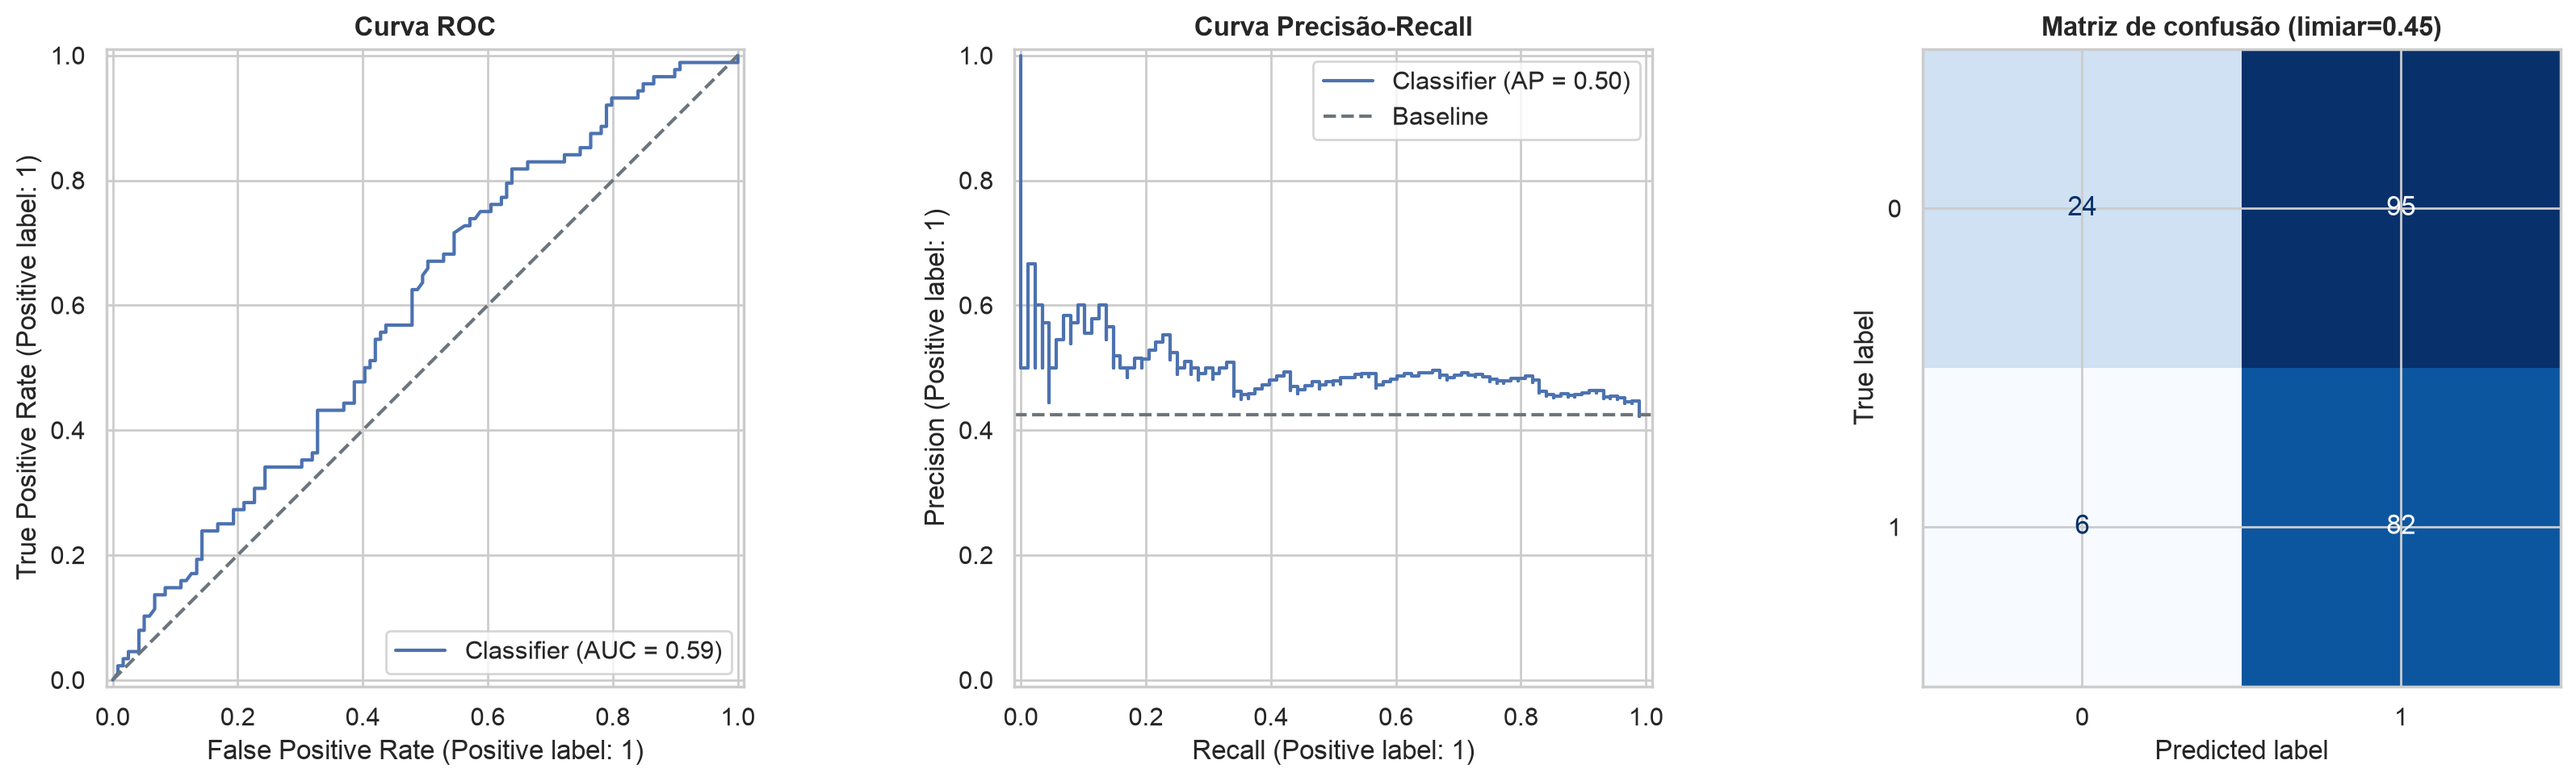
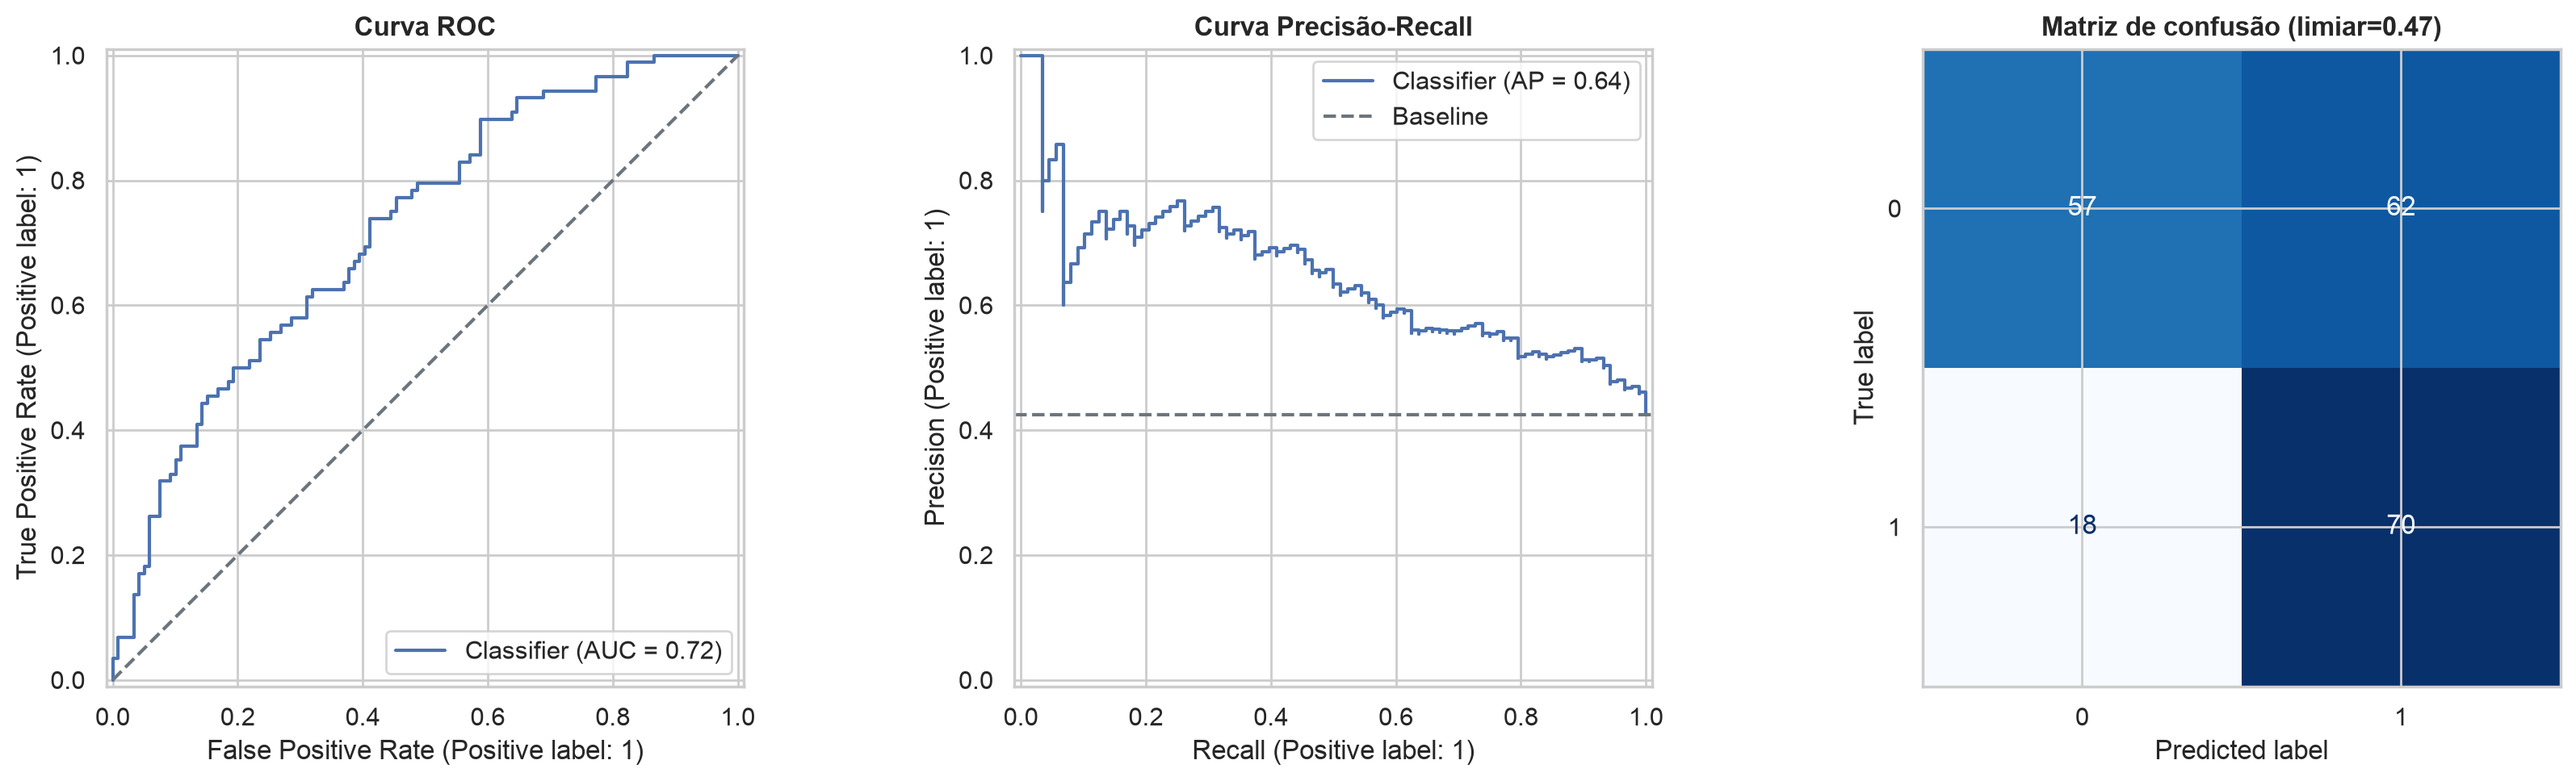
Atualiza pipeline e resultados da série temporal

diff --git a/chikungunya_pipeline.py b/chikungunya_pipeline.py
@@ -142,7 +142,7 @@ def limpar_dados(df: pd.DataFrame, outdir: Path) -> pd.DataFrame:
             df[col] = df[col].map(normaliza_texto)
 
     # Datas
-    for col in ["DT_NOTIFIC", "DT_SIN_PRI", "DT_NASC", "DT_OBITO", "DT_ENCERRA"]:
+    for col in ["DT_NOTIFIC", "DT_SIN_PRI", "DT_NASC", "DT_OBITO", "DT_ENCERRA", "DT_INTERNA"]:
         if col in df.columns:
             df[col] = parse_data(df[col])
 
@@ -165,8 +165,23 @@ def limpar_dados(df: pd.DataFrame, outdir: Path) -> pd.DataFrame:
 
     # Variáveis de desfecho (padrão SINAN: 1=sim, 2=não)
     if "HOSPITALIZ" in df.columns:
-        h = pd.to_numeric(df["HOSPITALIZ"], errors="coerce")
-        df["HOSPITALIZADO"] = h.map({1: 1, 2: 0})
+        h = pd.to_numeric(df["HOSPITALIZ"], errors="coerce").map({1: 1, 2: 0})
+        # Campo HOSPITALIZ costuma vir em branco; uma data de internação preenchida também comprova hospitalização.
+        if "DT_INTERNA" in df.columns:
+            h = h.where(~df["DT_INTERNA"].notna(), 1)
+        df["HOSPITALIZADO"] = h
+        log.info("Hospitalização com desfecho conhecido: %d de %d casos (%.1f%%)",
+                 h.notna().sum(), len(df), h.notna().mean() * 100)
+
+    # Sintomas e comorbidades (SINAN: 1=sim, 2=não, demais=ignorado) -> 1/0/NaN
+    flags = [c for c in ["FEBRE", "MIALGIA", "CEFALEIA", "EXANTEMA", "VOMITO", "NAUSEA", "DOR_COSTAS", "CONJUNTVIT",
+                         "ARTRITE", "ARTRALGIA", "PETEQUIA_N", "LEUCOPENIA", "LACO", "DOR_RETRO", "DIABETES",
+                         "HEMATOLOG", "HEPATOPAT", "RENAL", "HIPERTENSA", "ACIDO_PEPT", "AUTO_IMUNE"] if c in df.columns]
+    for c in flags:
+        df[c] = pd.to_numeric(df[c], errors="coerce").map({1: 1, 2: 0})
+    comorb = [c for c in ["DIABETES", "HEMATOLOG", "HEPATOPAT", "RENAL", "HIPERTENSA", "ACIDO_PEPT", "AUTO_IMUNE"] if c in df.columns]
+    if comorb:
+        df["N_COMORBID"] = df[comorb].sum(axis=1, min_count=1)
     if "EVOLUCAO" in df.columns:
         e = pd.to_numeric(df["EVOLUCAO"], errors="coerce")
         df["OBITO_AGRAVO"] = e.map({1: 0, 2: 1, 3: 0, 4: 0, 9: np.nan})
@@ -293,6 +308,8 @@ def eda(df: pd.DataFrame, outdir: Path, pop: pd.DataFrame | None) -> dict:
     for col, nome in [("HOSPITALIZADO", "hospitalização"), ("OBITO_AGRAVO", "óbito pelo agravo")]:
         if col in df.columns and df[col].notna().any():
             ach[f"taxa_{col.lower()}"] = float(df[col].mean() * 100)
+            if col == "HOSPITALIZADO":
+                ach["n_hosp_rotulado"] = int(df[col].notna().sum())
             log.info("Taxa de %s: %.2f%%", nome, df[col].mean() * 100)
     if {"FAIXA_ETARIA", "HOSPITALIZADO"} <= set(df.columns):
         g = df.groupby("FAIXA_ETARIA", observed=True)["HOSPITALIZADO"].mean() * 100
@@ -385,7 +402,12 @@ def modelo_classificacao(df: pd.DataFrame, outdir: Path) -> dict | None:
         return None
 
     # ATENÇÃO: não usar EVOLUCAO, CLASSI_FIN, DT_OBITO etc. (vazamento de dados / data leakage)
-    num = [c for c in ["IDADE", "DIAS_SINTOMA_NOTIF", "SEMANA_EPI", "GESTANTE"] if c in df.columns]
+    num = [c for c in ["IDADE", "DIAS_SINTOMA_NOTIF", "SEMANA_EPI", "GESTANTE", "N_COMORBID"] if c in df.columns]
+    # sintomas/comorbidades da notificação (excluídos sinais de alarme/gravidade, que já refletem a evolução do caso)
+    for c in ["FEBRE", "MIALGIA", "CEFALEIA", "EXANTEMA", "VOMITO", "NAUSEA", "DOR_COSTAS", "CONJUNTVIT", "ARTRITE",
+              "ARTRALGIA", "PETEQUIA_N", "DOR_RETRO", "DIABETES", "HIPERTENSA", "RENAL"]:
+        if c in df.columns and df[c].notna().mean() > 0.5 and df[c].nunique() > 1:
+            num.append(c)
     cat = [c for c in ["CS_SEXO", "CS_RACA", "NM_BAIRRO"] if c in df.columns]
     if not num + cat:
         return None
@@ -437,18 +459,25 @@ def modelo_classificacao(df: pd.DataFrame, outdir: Path) -> dict | None:
     pipe = Pipeline([("pre", pre), ("m", modelos[melhor_nome])]).fit(Xtr, ytr)
     proba = pipe.predict_proba(Xte)[:, 1]
 
-    # Limiar que maximiza F1 (escolhido no treino via validação não é trivial aqui; usamos o do teste só p/ reporte)
+    # Limiar de decisão escolhido SOMENTE com o treino (probabilidades fora-da-amostra via CV),
+    # sem olhar para o conjunto de teste -> evita otimismo nas métricas dependentes de limiar.
     from sklearn.metrics import precision_recall_curve
-    p_, r_, thr = precision_recall_curve(yte, proba)
+    from sklearn.model_selection import cross_val_predict
+    cv_tr = StratifiedKFold(n_splits=int(min(5, max(2, ytr.sum()))), shuffle=True, random_state=RANDOM_STATE)
+    oof = cross_val_predict(Pipeline([("pre", pre), ("m", modelos[melhor_nome])]), Xtr, ytr, cv=cv_tr,
+                            method="predict_proba", n_jobs=-1)[:, 1]
+    p_, r_, thr = precision_recall_curve(ytr, oof)
     f1s = 2 * p_ * r_ / (p_ + r_ + 1e-12)
     limiar = float(thr[np.nanargmax(f1s[:-1])]) if len(thr) else 0.5
     pred = (proba >= limiar).astype(int)
+    f1_todos = float(f1_score(yte, np.ones(len(yte), dtype=int)))  # referência: marcar todos como positivos
     metricas = {
         "modelo": melhor_nome,
         "roc_auc": float(roc_auc_score(yte, proba)) if yte.nunique() > 1 else np.nan,
         "pr_auc": float(average_precision_score(yte, proba)) if yte.nunique() > 1 else np.nan,
         "recall": float(recall_score(yte, pred)), "f1": float(f1_score(yte, pred)),
-        "limiar": limiar, "prevalencia_teste": float(yte.mean()), "n_teste": int(len(yte)),
+        "f1_todos_positivos": f1_todos,
+        "n_modelagem": int(len(d)), "limiar": limiar, "prevalencia_teste": float(yte.mean()), "n_teste": int(len(yte)),
     }
     log.info("Holdout temporal (%s): %s", melhor_nome, {k: round(v, 3) if isinstance(v, float) else v for k, v in metricas.items()})
 
@@ -491,78 +520,133 @@ def modelo_classificacao(df: pd.DataFrame, outdir: Path) -> dict | None:
 # ----------------------------------------------------------------------------
 # 5. Previsão de séries temporais
 # ----------------------------------------------------------------------------
+def _feats_ts(serie: pd.Series) -> pd.DataFrame:
+    f = pd.DataFrame({f"lag_{k}": serie.shift(k) for k in (1, 2, 3, 4)})
+    f["media_4"] = serie.shift(1).rolling(4).mean()
+    f["tendencia"] = serie.shift(1) - serie.shift(2)
+    return f
+
+
+def _prev_ingenuo(train: pd.Series, h: int) -> np.ndarray:
+    return np.repeat(float(train.iloc[-1]), h)
+
+
+def _prev_media4(train: pd.Series, h: int) -> np.ndarray:
+    return np.repeat(float(train.iloc[-4:].mean()), h)
+
+
+def _prev_ets(train: pd.Series, h: int) -> np.ndarray:
+    """Suavização exponencial com tendência amortecida (Holt damped)."""
+    from statsmodels.tsa.holtwinters import ExponentialSmoothing
+    with warnings.catch_warnings():
+        warnings.simplefilter("ignore")
+        m = ExponentialSmoothing(train.to_numpy(float) + 1.0, trend="add", damped_trend=True,
+                                 initialization_method="estimated").fit()
+    return np.clip(np.asarray(m.forecast(h)) - 1.0, 0, None)
+
+
+def _prev_arima(train: pd.Series, h: int) -> np.ndarray:
+    """ARIMA(1,1,1) na escala log1p (estabiliza variância e evita previsões negativas)."""
+    from statsmodels.tsa.arima.model import ARIMA
+    with warnings.catch_warnings():
+        warnings.simplefilter("ignore")
+        m = ARIMA(np.log1p(train.to_numpy(float)), order=(1, 1, 1)).fit()
+    return np.clip(np.expm1(np.asarray(m.forecast(h))), 0, None)
+
+
+def _prev_gb(train: pd.Series, h: int) -> np.ndarray:
+    """Gradient Boosting sobre a VARIAÇÃO semanal (árvores não extrapolam níveis, mas modelam diferenças)."""
+    F = _feats_ts(train)
+    alvo = train.diff()
+    data = pd.concat([F, alvo.rename("d")], axis=1).dropna()
+    if len(data) < 8:
+        return _prev_ingenuo(train, h)
+    m = HistGradientBoostingRegressor(max_iter=150, learning_rate=0.05, max_depth=3, min_samples_leaf=3,
+                                      random_state=RANDOM_STATE).fit(data.drop(columns="d"), data["d"])
+    hist = train.copy()
+    out = []
+    for _ in range(h):
+        prox = hist.index[-1] + pd.Timedelta(weeks=1)
+        tmp = pd.concat([hist, pd.Series([np.nan], index=[prox])])
+        xf = _feats_ts(tmp).iloc[[-1]]
+        yhat = max(0.0, float(hist.iloc[-1] + m.predict(xf)[0]))
+        hist.loc[prox] = yhat
+        out.append(yhat)
+    return np.array(out)
+
+
 def modelo_serie_temporal(df: pd.DataFrame, outdir: Path, horizonte: int = 4) -> dict | None:
+    """Compara baselines, ETS, ARIMA e GB com validação rolling-origin (reajusta a cada semana de teste)."""
     if "DT_NOTIFIC" not in df.columns:
         return None
     s = serie_semanal(df)
-    if len(s) < 14:
+    if len(s) < 16:
         log.warning("Série curta (%d semanas); pulando previsão.", len(s))
         return None
-    s = s.iloc[:-1] if len(s) > 1 else s  # descarta a última semana (possivelmente incompleta)
+    s = s.iloc[:-1].astype(float)  # descarta a última semana (possivelmente incompleta)
+    s.index.freq = None
+    H = 4
+    n = len(s)
+    n_test = max(6, int(n * 0.3))
+    origens = list(range(n - n_test, n - H + 1))
 
-    def feats(serie: pd.Series) -> pd.DataFrame:
-        f = pd.DataFrame({f"lag_{k}": serie.shift(k) for k in (1, 2, 3, 4)})
-        f["media_4"] = serie.shift(1).rolling(4).mean()
-        f["tendencia"] = serie.shift(1) - serie.shift(2)
-        f["semana"] = serie.index.isocalendar().week.values
-        return f
+    modelos = {"Ingênuo (semana anterior)": _prev_ingenuo, "Média móvel 4 sem.": _prev_media4,
+               "ETS (Holt amortecido)": _prev_ets, "ARIMA(1,1,1) log": _prev_arima, "Gradient Boosting (Δ semanal)": _prev_gb}
+    preds = {k: [] for k in modelos}
+    for t in origens:
+        treino = s.iloc[:t]
+        for nome, f in modelos.items():
+            if preds[nome] is None:
+                continue
+            try:
+                preds[nome].append(f(treino, H))
+            except Exception as e:  # noqa: BLE001
+                log.warning("Modelo '%s' falhou (%s); removido da comparação.", nome, str(e)[:80])
+                preds[nome] = None
+    reais = np.array([s.iloc[t:t + H].to_numpy() for t in origens])  # (origens, H)
 
-    F = feats(s)
-    data = pd.concat([F, s], axis=1).dropna()
-    X, y = data.drop(columns="casos"), data["casos"]
-    n_test = max(4, int(len(data) * 0.25))
-    Xtr, Xte, ytr, yte = X.iloc[:-n_test], X.iloc[-n_test:], y.iloc[:-n_test], y.iloc[-n_test:]
+    tabela, erros = {}, {}
+    for nome, pr in preds.items():
+        if pr is None:
+            continue
+        pr = np.array(pr)
+        e = pr - reais
+        erros[nome] = e
+        tabela[nome] = {"MAE_h1": float(np.mean(np.abs(e[:, 0]))), "RMSE_h1": float(np.sqrt(np.mean(e[:, 0] ** 2))),
+                        "MAE_h4": float(np.mean(np.abs(e[:, H - 1]))), "RMSE_h4": float(np.sqrt(np.mean(e[:, H - 1] ** 2)))}
+        log.info("Série | %-30s MAE 1 sem=%.1f | MAE 4 sem=%.1f", nome, tabela[nome]["MAE_h1"], tabela[nome]["MAE_h4"])
+    pd.DataFrame(tabela).T.round(2).to_csv(outdir / "tabelas" / "previsao_modelos.csv")
 
-    def rmse(a, b):
-        return float(np.sqrt(mean_squared_error(a, b)))
+    melhor = min(tabela, key=lambda k: (tabela[k]["MAE_h1"] + tabela[k]["MAE_h4"]) / 2)
+    ingenuo = tabela["Ingênuo (semana anterior)"]
+    ganho = 1 - (tabela[melhor]["MAE_h4"] / ingenuo["MAE_h4"])
+    log.info("Melhor modelo de séries: %s (MAE 4 sem. %.1f%% %s que o ingênuo)", melhor, abs(ganho) * 100,
+             "menor" if ganho > 0 else "maior")
 
-    modelo = HistGradientBoostingRegressor(max_iter=200, learning_rate=0.05, max_depth=3,
-                                           min_samples_leaf=3, random_state=RANDOM_STATE).fit(Xtr, ytr)
-    pred = modelo.predict(Xte)
-    naive = Xte["lag_1"]                       # baseline: igual à semana anterior
-    media4 = Xte["media_4"]                    # baseline: média das 4 últimas semanas
-    res = {
-        "n_semanas": int(len(s)), "semanas_teste": int(n_test),
-        "MAE": {"GradientBoosting": mean_absolute_error(yte, pred), "Ingênuo (lag-1)": mean_absolute_error(yte, naive),
-                "Média móvel 4": mean_absolute_error(yte, media4)},
-        "RMSE": {"GradientBoosting": rmse(yte, pred), "Ingênuo (lag-1)": rmse(yte, naive), "Média móvel 4": rmse(yte, media4)},
-    }
-    for k in res["MAE"]:
-        log.info("Série temporal | %-18s MAE=%.1f RMSE=%.1f", k, res["MAE"][k], res["RMSE"][k])
-
-    # Intervalo de previsão empírico a partir dos resíduos
-    resid = (yte - pred).to_numpy()
-    q_lo, q_hi = np.percentile(resid, [10, 90])
-
-    # Previsão recursiva futura (modelo refeito com toda a série)
-    modelo_full = HistGradientBoostingRegressor(max_iter=200, learning_rate=0.05, max_depth=3,
-                                                min_samples_leaf=3, random_state=RANDOM_STATE).fit(X, y)
-    hist = s.copy()
-    fut_idx, fut_val = [], []
-    for _ in range(horizonte):
-        prox = hist.index[-1] + pd.Timedelta(weeks=1)
-        tmp = pd.concat([hist, pd.Series([np.nan], index=[prox])])
-        xf = feats(tmp).iloc[[-1]]
-        yhat = max(0.0, float(modelo_full.predict(xf)[0]))
-        hist.loc[prox] = yhat
-        fut_idx.append(prox)
-        fut_val.append(yhat)
+    # Previsão futura com o melhor modelo; intervalo ~80% a partir dos erros empíricos fora-da-amostra
+    q_lo, q_hi = np.percentile(-erros[melhor].ravel(), [10, 90])  # erro = previsto - real  ->  real - previsto
+    fut_val = modelos[melhor](s, horizonte)
+    fut_idx = [s.index[-1] + pd.Timedelta(weeks=i + 1) for i in range(horizonte)]
     fut = pd.Series(fut_val, index=fut_idx)
-    pd.DataFrame({"previsao": fut, "lim_inf": (fut + q_lo).clip(lower=0), "lim_sup": fut + q_hi}).to_csv(
+    pd.DataFrame({"previsao": fut, "lim_inf": (fut + q_lo).clip(lower=0), "lim_sup": fut + q_hi}).round(1).to_csv(
         outdir / "tabelas" / "previsao_futura.csv")
 
+    # Gráfico: previsão 1 semana à frente (rolling) do melhor modelo e do ingênuo + futuro
+    idx_teste = s.index[origens]
     fig, ax = plt.subplots(figsize=(13, 5))
     ax.plot(s.index, s.values, color=AZUL, lw=2, label="Observado")
-    ax.plot(yte.index, pred, color=VERMELHO, lw=2, marker="o", label="Previsto (teste)")
-    ax.plot(yte.index, naive, color=CINZA, ls="--", label="Baseline ingênuo")
-    ax.plot([s.index[-1]] + fut_idx, [s.values[-1]] + fut_val, color="#e69f00", lw=2, marker="s", label=f"Previsão +{horizonte} sem.")
-    ax.fill_between(fut_idx, (fut + q_lo).clip(lower=0), fut + q_hi, color="#e69f00", alpha=.2, label="Intervalo ~80%")
-    ax.axvline(yte.index[0], color="k", ls=":", alpha=.5)
-    ax.set_title("Previsão de casos semanais vs. baseline (split cronológico)", fontweight="bold")
+    ax.plot(idx_teste, np.array(preds[melhor])[:, 0], color=VERMELHO, lw=2, marker="o", ms=4, label=f"{melhor} (1 sem. à frente)")
+    ax.plot(idx_teste, np.array(preds["Ingênuo (semana anterior)"])[:, 0], color=CINZA, ls="--", label="Ingênuo (1 sem. à frente)")
+    ax.plot([s.index[-1]] + fut_idx, [s.values[-1]] + list(fut_val), color="#e69f00", lw=2, marker="s", label=f"Previsão +{horizonte} sem.")
+    ax.fill_between(fut_idx, (fut + q_lo).clip(lower=0), fut + q_hi, color="#e69f00", alpha=.2, label="Intervalo ~80% (empírico)")
+    ax.axvline(idx_teste[0], color="k", ls=":", alpha=.5)
+    ax.set_title("Previsão de casos semanais (validação rolling-origin)", fontweight="bold")
     ax.set_ylabel("Casos por semana")
     ax.legend()
     salva_fig(fig, outdir / "figuras" / "09_previsao_serie.png")
-    return {k: ({a: round(b, 2) for a, b in v.items()} if isinstance(v, dict) else v) for k, v in res.items()}
+    return {"n_semanas": int(n), "n_origens": int(len(origens)), "melhor": melhor,
+            "tabela": {k: {a: round(b, 2) for a, b in v.items()} for k, v in tabela.items()},
+            "ganho_vs_ingenuo_h4": float(ganho)}
 
 
 # ----------------------------------------------------------------------------
@@ -687,7 +771,9 @@ def gerar_relatorio(outdir: Path, ach: dict, testes: list, clf: dict | None, ts:
     if "idade_mediana" in ach:
         L.append(f"- Idade mediana: **{ach['idade_mediana']:.0f} anos**; {ach['pct_feminino']:.1f}% dos casos são mulheres.")
     if "taxa_hospitalizado" in ach:
-        L.append(f"- Taxa de hospitalização: **{ach['taxa_hospitalizado']:.2f}%**.")
+        L.append(f"- Taxa de hospitalização: **{ach['taxa_hospitalizado']:.2f}%**, calculada apenas entre os "
+                 f"**{ach.get('n_hosp_rotulado', 0)} casos** ({ach.get('n_hosp_rotulado', 0) / ach['n_casos'] * 100:.0f}% do total) "
+                 f"com desfecho de hospitalização preenchido.")
     L.append("\n## 2. Estatística inferencial\n")
     if testes:
         L.append("| Hipótese | Teste | p-valor | Efeito | Conclusão |\n|---|---|---|---|---|")
@@ -696,9 +782,11 @@ def gerar_relatorio(outdir: Path, ach: dict, testes: list, clf: dict | None, ts:
             L.append(f"| {t['hipotese']} | {t['teste']} | {p} | {t['tamanho_efeito']} | {t['interpretacao']} |")
     L.append("\n## 3. Machine Learning (hospitalização)\n")
     if clf:
-        L.append(f"Melhor modelo na validação cruzada: **{clf['modelo']}**. Avaliação em *holdout cronológico* "
+        L.append(f"Modelagem com **{clf['n_modelagem']} casos** que têm hospitalização conhecida. "
+                 f"Melhor modelo na validação cruzada: **{clf['modelo']}**. Avaliação em *holdout cronológico* "
                  f"(n={clf['n_teste']}, prevalência={clf['prevalencia_teste']*100:.1f}%): ROC-AUC={clf['roc_auc']:.3f}, "
-                 f"PR-AUC={clf['pr_auc']:.3f}, recall={clf['recall']:.3f}, F1={clf['f1']:.3f}.\n")
+                 f"PR-AUC={clf['pr_auc']:.3f}. Com limiar escolhido apenas no treino ({clf['limiar']:.2f}): "
+                 f"recall={clf['recall']:.3f}, F1={clf['f1']:.3f} (referência: marcar todos como positivos dá F1={clf['f1_todos_positivos']:.3f}).\n")
         L.append("| Modelo | ROC-AUC | PR-AUC | Recall | F1 |\n|---|---|---|---|---|")
         for r in clf["tabela_cv"]:
             L.append(f"| {r['modelo']} | {r['roc_auc']} | {r['pr_auc']} | {r['recall']} | {r['f1']} |")
@@ -706,9 +794,12 @@ def gerar_relatorio(outdir: Path, ach: dict, testes: list, clf: dict | None, ts:
         L.append("_Não executado (alvo indisponível)._")
     L.append("\n## 4. Previsão de séries temporais\n")
     if ts:
-        L.append("| Modelo | MAE | RMSE |\n|---|---|---|")
-        for k in ts["MAE"]:
-            L.append(f"| {k} | {ts['MAE'][k]} | {ts['RMSE'][k]} |")
+        L.append(f"Validação *rolling-origin* ({ts['n_origens']} origens de teste, série de {ts['n_semanas']} semanas). "
+                 f"Melhor modelo: **{ts['melhor']}** (MAE a 4 semanas {abs(ts['ganho_vs_ingenuo_h4'])*100:.0f}% "
+                 f"{'menor' if ts['ganho_vs_ingenuo_h4'] > 0 else 'maior'} que o ingênuo).\n")
+        L.append("| Modelo | MAE 1 sem. | RMSE 1 sem. | MAE 4 sem. | RMSE 4 sem. |\n|---|---|---|---|---|")
+        for k, v in ts["tabela"].items():
+            L.append(f"| {k} | {v['MAE_h1']} | {v['RMSE_h1']} | {v['MAE_h4']} | {v['RMSE_h4']} |")
     else:
         L.append("_Série insuficiente._")
     L.append("\n## 5. Clusters de bairros\n")

diff --git a/resultados/RELATORIO.md b/resultados/RELATORIO.md
@@ -6,7 +6,7 @@
 - Os 5 bairros com mais casos concentram **33.6%** do total: Cohab (218), Ibura (159), Nova Descoberta (117), Vasco Da Gama (96), Jordao (63).
 - Pico epidêmico na semana de **2025-09-27** com **69 casos**.
 - Idade mediana: **26 anos**; 55.0% dos casos são mulheres.
-- Taxa de hospitalização: **29.80%**.
+- Taxa de hospitalização: **29.80%**, calculada apenas entre os **688 casos** (35% do total) com desfecho de hospitalização preenchido.
 
 ## 2. Estatística inferencial
 
@@ -21,22 +21,26 @@
 
 ## 3. Machine Learning (hospitalização)
 
-Melhor modelo na validação cruzada: **Random Forest**. Avaliação em *holdout cronológico* (n=207, prevalência=42.5%): ROC-AUC=0.590, PR-AUC=0.496, recall=0.932, F1=0.619.
+Modelagem com **688 casos** que têm hospitalização conhecida. Melhor modelo na validação cruzada: **Random Forest**. Avaliação em *holdout cronológico* (n=207, prevalência=42.5%): ROC-AUC=0.721, PR-AUC=0.645. Com limiar escolhido apenas no treino (0.47): recall=0.795, F1=0.636 (referência: marcar todos como positivos dá F1=0.597).
 
 | Modelo | ROC-AUC | PR-AUC | Recall | F1 |
 |---|---|---|---|---|
 | Baseline (prevalência) | 0.500 ± 0.000 | 0.298 ± 0.001 | 0.000 ± 0.000 | 0.000 ± 0.000 |
-| Regressão Logística | 0.677 ± 0.019 | 0.458 ± 0.031 | 0.654 ± 0.061 | 0.529 ± 0.034 |
-| Random Forest | 0.742 ± 0.020 | 0.533 ± 0.030 | 0.610 ± 0.082 | 0.542 ± 0.028 |
-| Gradient Boosting | 0.715 ± 0.036 | 0.527 ± 0.052 | 0.546 ± 0.103 | 0.511 ± 0.044 |
+| Regressão Logística | 0.777 ± 0.020 | 0.613 ± 0.056 | 0.702 ± 0.036 | 0.586 ± 0.021 |
+| Random Forest | 0.816 ± 0.014 | 0.669 ± 0.025 | 0.654 ± 0.050 | 0.612 ± 0.029 |
+| Gradient Boosting | 0.802 ± 0.016 | 0.658 ± 0.020 | 0.590 ± 0.102 | 0.580 ± 0.055 |
 
 ## 4. Previsão de séries temporais
 
-| Modelo | MAE | RMSE |
-|---|---|---|
-| GradientBoosting | 26.87 | 28.85 |
-| Ingênuo (lag-1) | 7.5 | 9.87 |
-| Média móvel 4 | 9.31 | 12.17 |
+Validação *rolling-origin* (12 origens de teste, série de 52 semanas). Melhor modelo: **ARIMA(1,1,1) log** (MAE a 4 semanas 2% maior que o ingênuo).
+
+| Modelo | MAE 1 sem. | RMSE 1 sem. | MAE 4 sem. | RMSE 4 sem. |
+|---|---|---|---|---|
+| Ingênuo (semana anterior) | 8.67 | 10.94 | 14.25 | 16.28 |
+| Média móvel 4 sem. | 8.25 | 10.03 | 15.21 | 16.84 |
+| ETS (Holt amortecido) | 11.9 | 13.1 | 19.59 | 20.53 |
+| ARIMA(1,1,1) log | 8.08 | 10.27 | 14.6 | 16.37 |
+| Gradient Boosting (Δ semanal) | 10.83 | 12.74 | 15.95 | 18.49 |
 
 ## 5. Clusters de bairros
 
